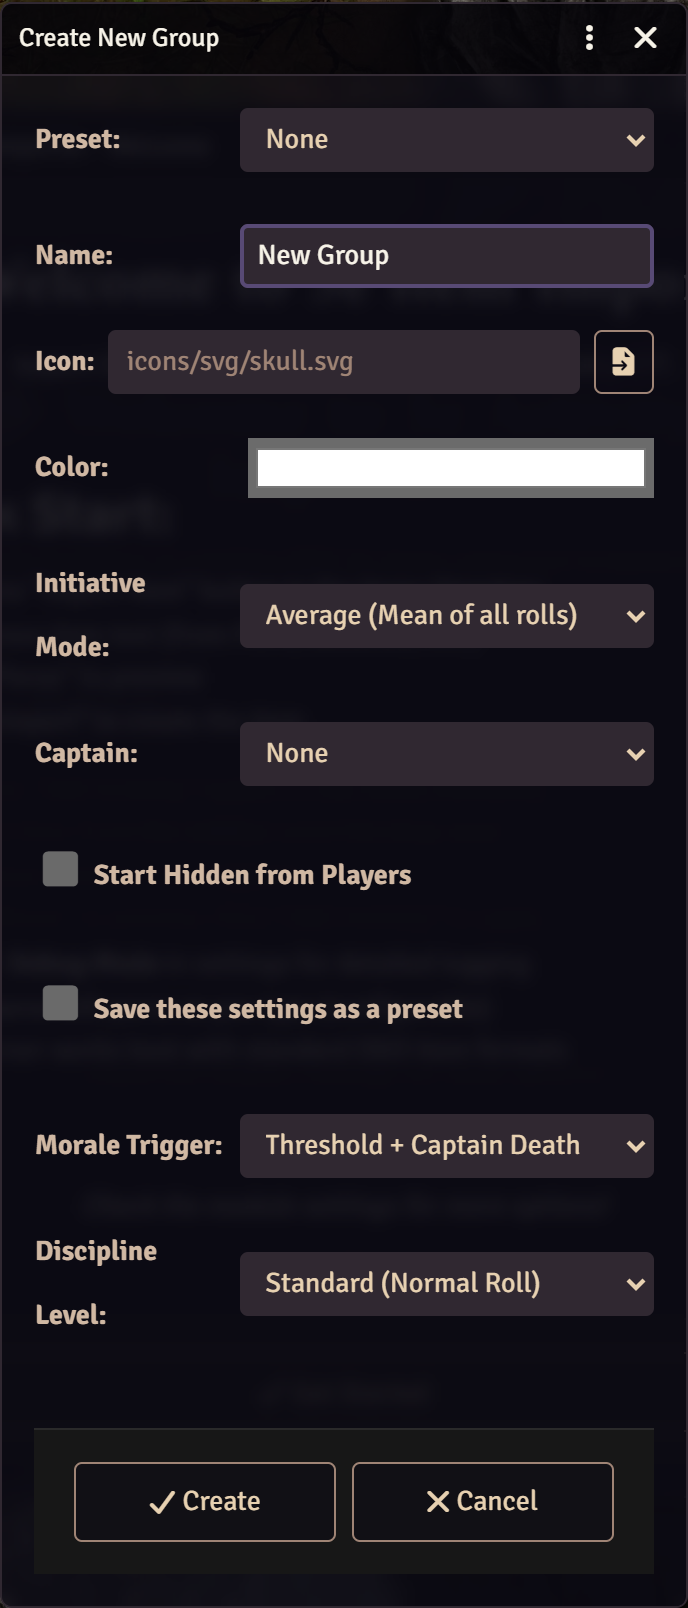
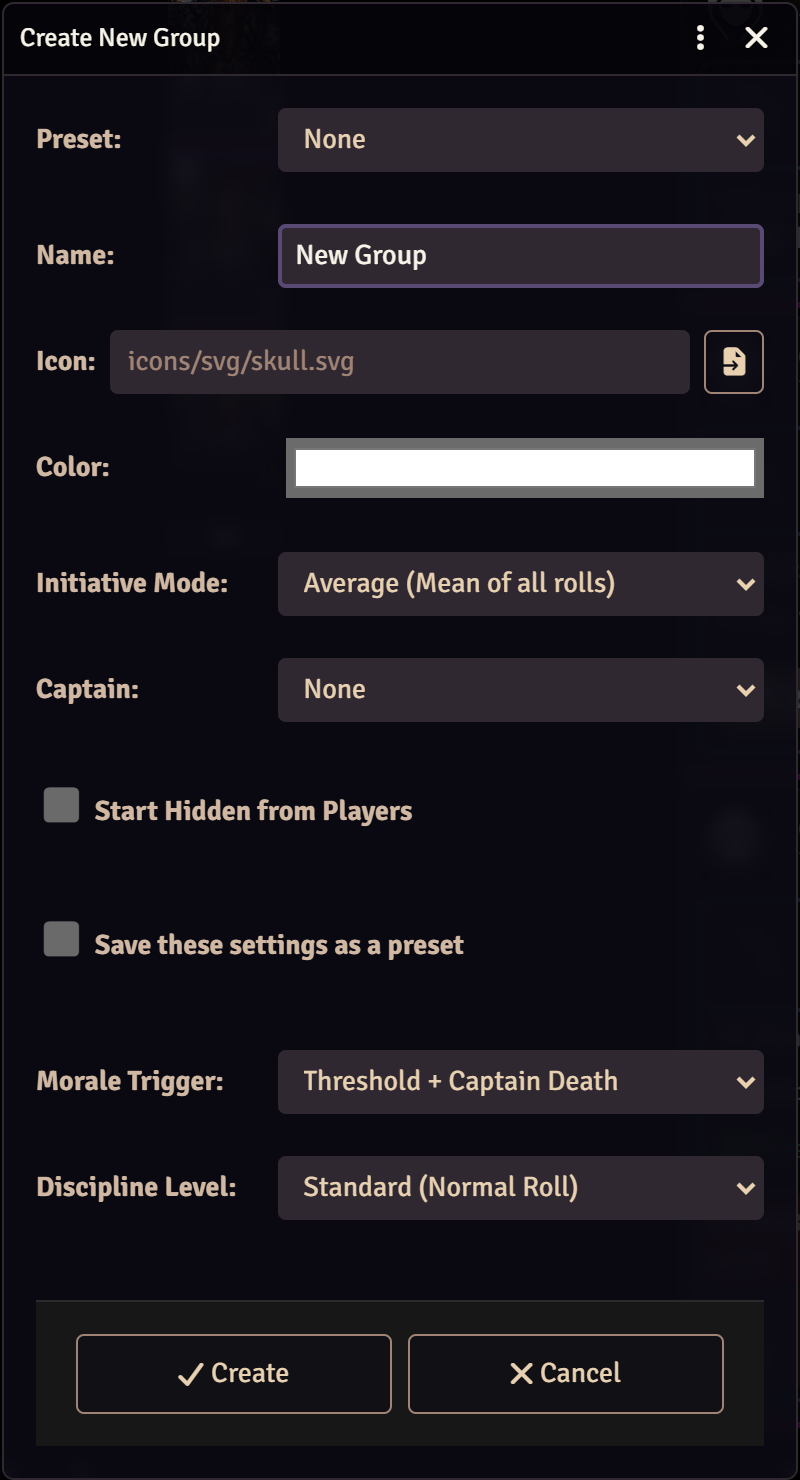
SCI Latest V14.4.0

Changed region(s): [[0.0, 0.0, 1.0, 1.0], [0.3358, 0.4973, 1.0, 1.0], [0.0916, 0.9014, 0.9157, 0.9635]]

diff --git a/squad-combat-initiative/README.md b/squad-combat-initiative/README.md
@@ -11,5 +11,8 @@
 | Squad actions and the More menu | [squad-combat-initiative-squad-actions.png](https://raw.githubusercontent.com/GnollStack/bakshis-bazaar-archives/main/squad-combat-initiative/images/squad-combat-initiative-squad-actions.png) |
 | Create Group dialog with presets | [squad-combat-initiative-create-squad.png](https://raw.githubusercontent.com/GnollStack/bakshis-bazaar-archives/main/squad-combat-initiative/images/squad-combat-initiative-create-squad.png) |
 | Squad Combat Initiative settings | [squad-combat-initiative-settings.png](https://raw.githubusercontent.com/GnollStack/bakshis-bazaar-archives/main/squad-combat-initiative/images/squad-combat-initiative-settings.png) |
+| Squad cards in Carousel Combat Tracker | [squad-combat-initiative-carousel-squads.png](https://raw.githubusercontent.com/GnollStack/bakshis-bazaar-archives/main/squad-combat-initiative/images/squad-combat-initiative-carousel-squads.png) |
+| A squad card showing one member at a time | [squad-combat-initiative-carousel-one-at-a-time.png](https://raw.githubusercontent.com/GnollStack/bakshis-bazaar-archives/main/squad-combat-initiative/images/squad-combat-initiative-carousel-one-at-a-time.png) |
+| A squad opening downward from its card | [squad-combat-initiative-carousel-stack.png](https://raw.githubusercontent.com/GnollStack/bakshis-bazaar-archives/main/squad-combat-initiative/images/squad-combat-initiative-carousel-stack.png) |
 
-Screenshots show the 14.3.0 squad cards on Foundry VTT 14 with dnd5e 6.
+Screenshots show the squad cards from 14.3.0 and the Carousel cards, Settings and Create Group dialog from 14.4.0, on Foundry VTT 14 with dnd5e 6.
